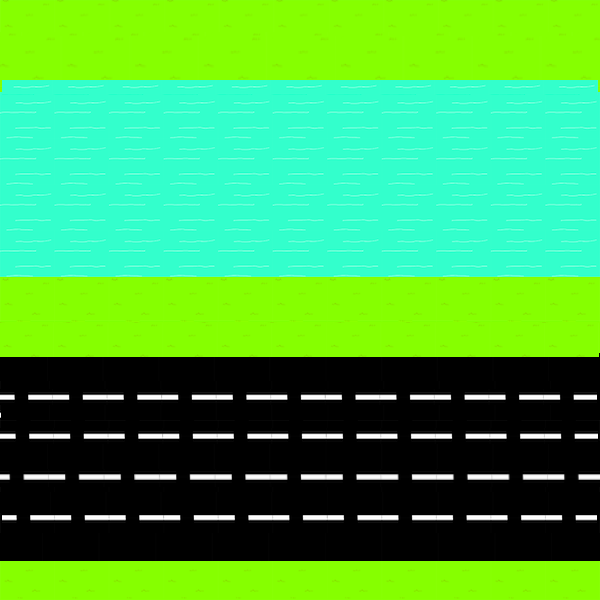
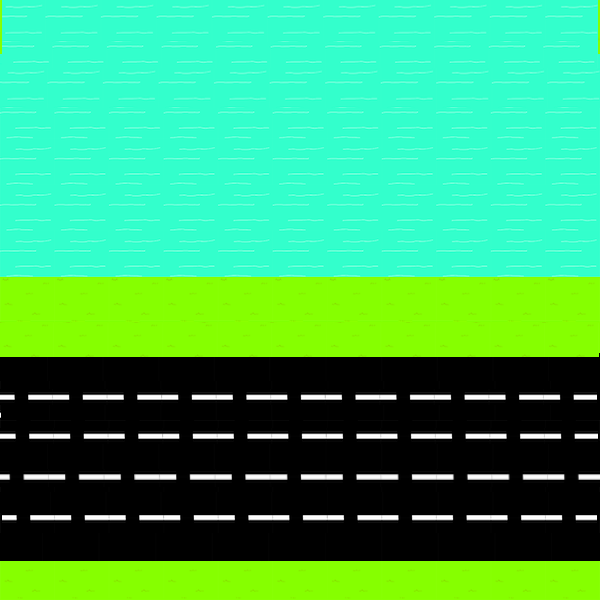
add lilypad array, still need to get collision with lilypad to work

Changed region(s): [[0.0, 0.0, 1.0, 0.18]]

diff --git a/lib/index.js b/lib/index.js
@@ -1,6 +1,7 @@
 var CarGenerator = require('./car-generator')
 var LogGenerator = require('./log-generator')
 var TurtleGenerator = require('./turtle-generator')
+var LilyPadsGenerator = require('./lilypad-generator.js')
 var Frog = require('./frog.js')
 var canvas = document.getElementById('game');
 var context = canvas.getContext('2d');
@@ -12,12 +13,14 @@ var truck1 = document.getElementById('truck1')
 var truck2 = document.getElementById('truck2')
 var log1 = document.getElementById('log1')
 var turtle1 = document.getElementById('turtle1')
+var lilypad = document.getElementById('lilypad')
 var isDrowning = true;
 var turtleArrayOne = [];
 var turtleArrayTwo = [];
 var cars = new CarGenerator(context);
 var logs = new LogGenerator(context);
 var turtles = new TurtleGenerator(context);
+var lilypads = new LilyPadsGenerator(context);
 var level = 1;
 
 
@@ -58,7 +61,7 @@ function turtleTravel(turtle) {
 }
 
 function drowningFrog() {
-  if (frog.y < 280 && frog.y > 40 && isDrowning) {
+  if (frog.y < 280 && frog.y > 0 && isDrowning) {
     alert('You drowned!!!!')
     level = 1;
     levelUpRight(cars)
@@ -107,14 +110,22 @@ requestAnimationFrame(function gameLoop() {
       turtleTravel(e);
     })
   });
+  lilypads.all.forEach(function (lilypad){
+    lilypad.forEach(function(e) {
+      e.draw()
+    })
+  });
   drowningFrog();
-  win();
+  win(lilypads);
   frog.draw();
   requestAnimationFrame(gameLoop);
 });
 
-function win() {
-  if (frog.y < 80) {
+function win(lilypads) {
+  if (frog.x < lilypads.x + lilypads.width &&
+    frog.x + frog.width > lilypads.x &&
+    frog.y < lilypads.y + lilypads.height &&
+    frog.height + frog.y > lilypads.y){
     level += 3;
     levelUpRight(cars)
     resetFrog();

diff --git a/lib/turtle-generator.js b/lib/turtle-generator.js
@@ -3,6 +3,7 @@ var Turtles = require('./turtles')
 var TurtleGenerator = function(context) {
   this.one = []
   this.two = []
+  this.three = []
   this.one.push(new Turtles(600, 200, 50, 35, context));
   this.one.push(new Turtles(660, 200, 50, 35, context));
   this.one.push(new Turtles(720, 200, 50, 35, context));
@@ -15,7 +16,13 @@ var TurtleGenerator = function(context) {
   this.two.push(new Turtles(990, 120, 50, 35, context));
   this.two.push(new Turtles(1050, 120, 50, 35, context));
   this.two.push(new Turtles(1120, 120, 50, 35, context));
-  this.all = [this.one, this.two]
+  this.three.push(new Turtles(690, 40, 50, 35, context));
+  this.three.push(new Turtles(750, 40, 50, 35, context));
+  this.three.push(new Turtles(810, 40, 50, 35, context));
+  this.three.push(new Turtles(990, 40, 50, 35, context));
+  this.three.push(new Turtles(1050, 40, 50, 35, context));
+  this.three.push(new Turtles(1120, 40, 50, 35, context));
+  this.all = [this.one, this.two, this.three]
 }
 
 module.exports = TurtleGenerator;

diff --git a/index.html b/index.html
@@ -7,10 +7,6 @@
   <link href="styles.css" rel="stylesheet">
 </head>
 <body>
-  <section class='start-screen'>
-      <div class='title'>FROGGER</div>
-      <button class='start-button'>START</button>
-    </section>
   <section class='canvas-container'>
     <canvas id="game"
       class="game-canvas"
@@ -28,6 +24,7 @@
 <img id='truck2' src='images/truck1.png' width="60" height="40">
 <img id='log1' src='images/log.png' width="100" height="35">
 <img id='turtle1' src='images/turtle.png' width="50" height="35">
+<img id='lilypad' src='images/Lily_Pad.png' width="50" height="40">
 
 
 

diff --git a/lib/lilypad-generator.js b/lib/lilypad-generator.js
@@ -1,0 +1,13 @@
+var LilyPads = require('./lilypads')
+
+var LilyPadsGenerator = function(context) {
+  this.one = []
+  this.one.push(new LilyPads(5, 0, 60, 40, context));
+  this.one.push(new LilyPads(137, 0, 60, 40, context));
+  this.one.push(new LilyPads(269, 0, 60, 40, context));
+  this.one.push(new LilyPads(401, 0, 60, 40, context));
+  this.one.push(new LilyPads(533, 0, 60, 40, context));
+  this.all = [this.one]
+}
+
+module.exports = LilyPadsGenerator;

diff --git a/lib/lilypads.js b/lib/lilypads.js
@@ -1,0 +1,15 @@
+function LilyPads (x, y, width, height, context) {
+  this.x = x;
+  this.y = y;
+  this.width = width;
+  this.height = height;
+  this.context = context;
+}
+
+LilyPads.prototype.draw = function() {
+  this.context.drawImage(lilypad, this.x, this.y, this.width, this.height)
+  return this;
+};
+
+
+module.exports = LilyPads;

diff --git a/lib/turtles.js b/lib/turtles.js
@@ -12,13 +12,6 @@ Turtles.prototype.draw = function() {
   return this;
 };
 
-Turtles.prototype.swimRight = function() {
-  if (this.x > 600){
-    this.x = -80;
-  }
-  return (this.x++);
-};
-
 Turtles.prototype.swimLeft = function() {
   if (this.x < -50){
     this.x = 680
